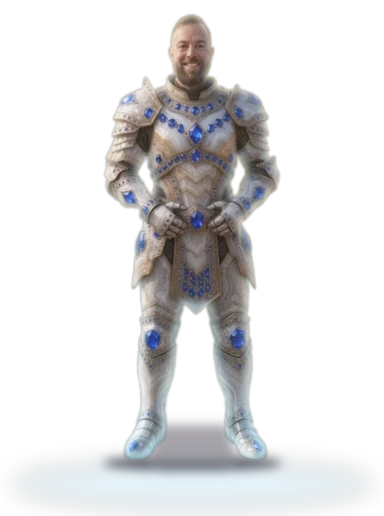
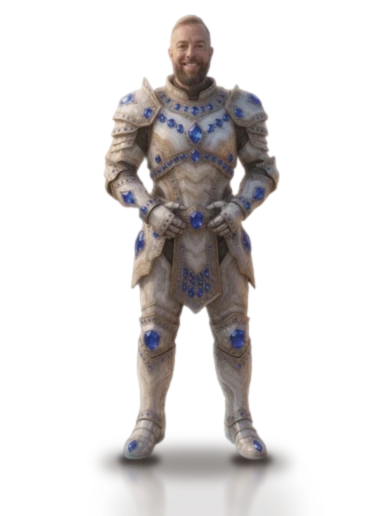
Aretoria v64: Irishnu scene integration (approved subtle pass) — arrival layer + hub cards recomposited so he stands in the painting: cyan cutout outline removed, defringed edges, graded to the plate, warm back-rim + portal-blue rim, light wrap, floor bounce, depth haze, matched softness/grain, floo

diff --git a/aretoria.test.js b/aretoria.test.js
@@ -130,7 +130,7 @@ const noComments = (t) => t.replace(/\/\*[\s\S]*?\*\//g, '').replace(/^\s*\/\/.*
   assert('no MEC calendar / CaptainLog UI on page', !/month-grid|captains-log|panel-calendar|Modern Era Calendar/.test(html));
   assert('Irishnu mentioned as the Guide on landing', /Irishnu the Guide/.test(html));
   assert('boot imports openAretoria and registers SW', /openAretoria/.test(boot) && /sw\.js\?v=38/.test(boot));
-  assert('SW is aretoria-v38', /aretoria-v38/.test(sw) && !/aretoria-v17/.test(sw) && !/mec-v/.test(sw) && !/captains-log/.test(sw));
+  assert('SW is aretoria-v39', /aretoria-v39/.test(sw) && !/aretoria-v17/.test(sw) && !/mec-v/.test(sw) && !/captains-log/.test(sw));
   assert('SW precaches Aretoria code + shell', ['aretoria.js', 'aretoria-data.js', 'aretoria-art.js', 'aretoria.css', 'boot.js', 'shell.css'].every((f) => sw.includes(`./${f}`)));
   assert('SW does not precache portraits/guardians/realms', !/assets\/aretoria\/[^']*\.jpg/.test(noComments(sw)) && !/guardians\//.test(noComments(sw)) && !/realms\//.test(noComments(sw)));
   assert('aretoria.js VERSION = 38 and imports data/art ?v=38; boot imports aretoria.js?v=38', /const VERSION = 38;/.test(src('./aretoria.js')) && /aretoria-data\.js\?v=38'/.test(src('./aretoria.js')) && /aretoria-art\.js\?v=38'/.test(src('./aretoria.js')) && /aretoria\.js\?v=38'/.test(src('./boot.js')));

diff --git a/sw.js b/sw.js
@@ -1,5 +1,5 @@
-/* Aretoria standalone service worker — network-first app shell (aretoria-v38) */
-const CACHE = 'aretoria-v38';
+/* Aretoria standalone service worker — network-first app shell (aretoria-v39) */
+const CACHE = 'aretoria-v39';
 /* Portrait/shrine/guardian/realm images (assets/aretoria/) are deliberately NOT precached;
    they are fetched only when the portal is entered, then kept by the runtime cache. */
 const ASSETS = [

diff --git a/ROADMAP.md b/ROADMAP.md
@@ -42,6 +42,7 @@ Captain's Log (casswaters/modern-era-calendar) no longer carries its own copy of
 - Version 1 = six virtue realms plus Shadow: confirm.
 
 ## Shipped (newest first, times MT)
+- 2026-10-07 16:15 — v64 (SW v39): Irishnu scene integration (approved "subtle" pass, compositing only; design, pose and placement unchanged) — arrival layer and both hub cards: cyan cutout outline removed, edges defringed, graded to the painting (black/white point, warmth, softer gems), warm sunset back-rim + portal-blue rim on the side facing the swirl, light wrap, ivory floor bounce, depth haze, painting-matched softness and grain, floor-tinted contact shadow under each boot, faint reflection on the polished arrival floor, hub cast shadow now falls left like the walkway posts'. Build: qa/aretoria/irishnu-integration/integrate.py.
 - 2026-10-07 16:08 — v63 (SW v38): the guide's first conversation — first visit opens on "What are the realms?" only (answer names all six temples, Shadow across its bridge, the Axial hall), then the Shadow question / "Where should I go today?" / "Let me explore."; later visits get "Where should I go today?" and "I know the way. Let me explore." (first-visit-done flag next to the name). Removed: "Who are you, really?" and its answer.
 - 2026-10-07 15:54 — v62 (SW v37): username-based Aretoria — first-visit name prompt ("What should Aretoria call you?", local only, skip uses "traveler"), change or forget it in the Hall of Virtues; no hard-coded name anywhere served; guide name and art swappable (default Irishnu).
 - 2026-10-07 15:26 — v61 (SW v36): lore pass — Eirena removed; golden thread held by no one; six great temples share the 81 virtues 14/14/14/13/13/13; Irishnu's six-temples answer rewritten.
